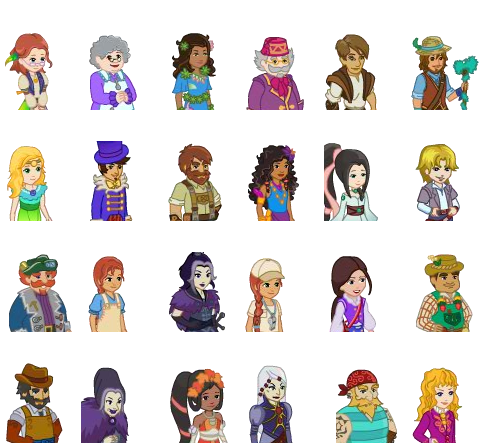
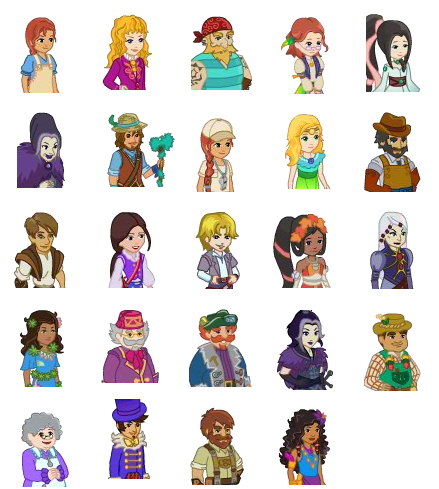
Redid thumbnails for more consistent positioning

diff --git a/public/phasergames/adventures/scripts/common/ui/uiDialogue.js b/public/phasergames/adventures/scripts/common/ui/uiDialogue.js
@@ -208,13 +208,7 @@ class uiDialogue extends uiManagerBase
             textElement.setY(this.phaserScene.sharedData.dialogue.ui.elements.continueBtn.y - choiceHeight - textElement.height - 20)
             this.phaserScene.sharedData.dialogue.ui.elements.sideImg.setY(textElement.y+5) // +5
             this.phaserScene.sharedData.dialogue.ui.elements.charaName.setY(textElement.y-44)
-            if (character.thumbnailFolderName === this.DIALOGUE_HUMANS_THUMBNAILS) {
-                this.phaserScene.sharedData.dialogue.ui.elements.charaPortrait.setPosition(23, textElement.y-65)
-            } else if (character.thumbnailFolderName === this.DIALOGUE_SPECIAL_THUMBNAILS) {
-                this.phaserScene.sharedData.dialogue.ui.elements.charaPortrait.setPosition(23, textElement.y-40)
-            } else  {
-                this.phaserScene.sharedData.dialogue.ui.elements.charaPortrait.setPosition(8, textElement.y-55)
-            }
+            this.phaserScene.sharedData.dialogue.ui.elements.charaPortrait.setPosition(7, textElement.y-47)
             this.phaserScene.sharedData.dialogue.ui.elements.charaPortraitMask.setY(textElement.y-55)
             this.phaserScene.sharedData.dialogue.ui.elements.panelImg.setY(textElement.y-55)
 

diff --git a/public/phasergames/adventures/scripts/common/ui/uiQuest.js b/public/phasergames/adventures/scripts/common/ui/uiQuest.js
@@ -286,6 +286,12 @@ class uiQuest extends uiManagerBase
 
                 this.phaserScene.sharedData.quest.ui.elements.questIcon.setTexture(thumbnailFolderName);
                 this.phaserScene.sharedData.quest.ui.elements.questIcon.setFrame(thumbnail);
+                if (thumbnailFolderName === "specialthumbnail" || thumbnail === "BSA") {
+                    this.phaserScene.sharedData.quest.ui.elements.questIcon.setPosition(430, 185);
+                } else {
+                    this.phaserScene.sharedData.quest.ui.elements.questIcon.setPosition(420, 185);
+                }
+                
 
             }
             else
